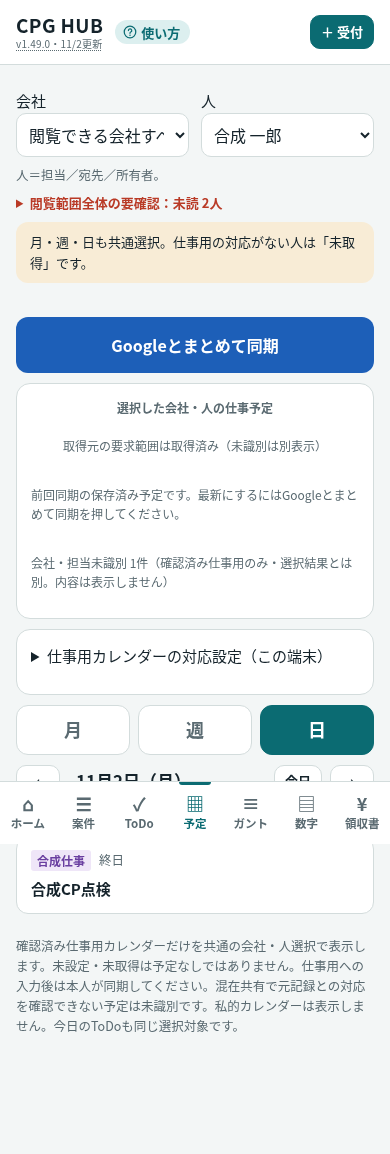
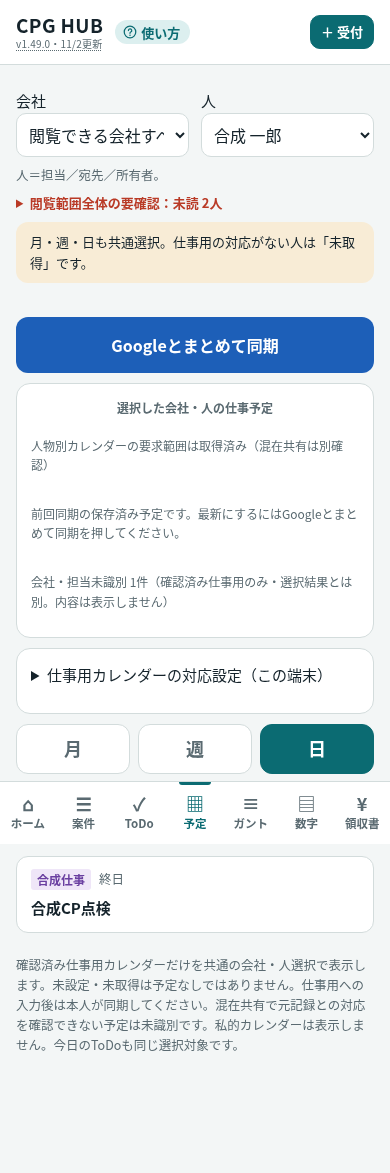
Fail closed for legacy calendar privacy and missing mixed sources

diff --git a/manual-admin.html b/manual-admin.html
@@ -172,7 +172,7 @@ th{color:var(--muted);font-size:13px}
 <section><h2>v1.48.2（2026年11月1日）日付のずれと文字の折り返し</h2><p>同期結果の「日付の変わった案件」には受付番号・物件・部屋と、HUBの予定日／カレンダーに登録した日付を表示します。最初の5件を表示し、「ほか○件」で残りを開閉できます。案件を押すとGoogleカレンダー欄へ移動します。日付のずれは同期エラーとは別の「要確認」です。必要な更新は本人が「カレンダーの予定を更新」を押して行います。自動更新はしません。文字が大きい場合も枠内で折り返し、広い表は表の中で横にスクロールします。</p></section>
 <section><h2>v1.48.3（2026年11月1日）数字の月別・全期間</h2><p>数字画面の「月別／全期間」で集計期間を切り替えます。月別の初期表示は日本時間の今月で、年月を選ぶか「前月」「翌月」で移動できます。見積提出は見積提出日、受注は受注日、失注は失注日で数え、担当別・種類別・理由・受注額・決定率を同じ期間で比べられます。全期間も日付のない実績は含めません。決定率は受注÷（受注＋失注）、0件なら「—」です。失注日未入力の注意は期間外の独立表示で、失注件数・決定率に含めません。未入金は現在残高で、選択期間の対象外です。失注段階優先と正しい受注後取消の受注履歴は従来どおりです。</p></section>
 <section><h2>v1.48.4（2026年11月1日）同期をホームの先頭へ</h2><p>ホームは、ヘッダーの直下に「Googleとまとめて同期」ボタンと同期結果を表示し、その下に今日のまとめ、タスクリクエスト、会社の動き（社長・全社・GM）を並べます。同期成功時の開閉や、エラー・今日未同期・未送信の完了報告・日付のずれ等の注意は従来どおりです。配置だけの変更で、同期・保存・権限・集計は変わりません。</p></section>
-<section><h2>v1.49.0（2026年11月2日）共通の会社・人選択</h2><p>ホーム・案件・ToDo・数字・ガント・指示一覧・領収書・会社の動きは、共通の会社・人のドロップダウンで同じ対象を選びます。人は案件と通常ToDoでは担当、リクエストでは宛先、領収書では所有者です。初めは自分。会社と人を選ぶと画面移動・再読込後も引き継ぎます。会社未設定の案件・領収書は所属会社から推測せず「会社未設定」で確認します。案件に結び付かないToDoとリクエストの会社は、根拠のある担当・宛先の所属によります。</p><p>同名の人はシートIDで区別します。選んだ人を読めない・権限を確認できないときに、勝手に全員へ切り替えません。未読込や読込失敗は0件という意味ではありません。数字の月別／全期間と計算方法、保存データ、同期出力は変わりません。</p><p>ToDoの期間、数字の年月・全期間はそのまま使えます。絞り込んだ件数とは別に、閲覧範囲全体の期限切れToDo・緊急・未読と、この端末の同期の注意を表示します。会社の動きの同期状況は閲覧範囲全体の注意です。入力中の画面では選択を変えず、一覧へ戻って変更します。入金確認依頼やAccess書出し等の既存操作は表示選択で対象を変更しません。領収書の支払い方法だけは領収書画面内で選べます。</p><p>予定の月・週・日と今日のToDoも共通選択に連動します。予定画面の「仕事用カレンダーの対応設定」で、取得済みのGoogle一覧から仕事専用と確認したIDを選び、会社・正規社員を確認して保存します。このブラウザの利用設定別に保存し、他端末へ自動配布しません。未設定・未接続・範囲外・読取失敗は「未取得」で、取得済み0件とは区別します。社員候補は予定未接続でも残ります。「数字」→「Googleカレンダー連携」の読込対象にも選び、予定入力後は本人が同期してください。対応設定だけでは読込対象を増やしません。</p><p>複数社を担当し予定ごとの会社が不明なら「会社未特定」を選びます。全社＋本人では表示し、単社へ推測で振り分けません。混在仕事共有は、案件の元記録に保存されたカレンダーID＋イベントID＋受付番号が一意に一致する場合だけ分類します。社員共有表にはイベントIDがないため、他社員の混在予定や旧キャッシュのID欠落は未識別の別件数です。私的予定・未確認カレンダーは表示せず、「全員」でも確認済み仕事用だけです。既存キャッシュ原本、Google予定・ACL・登録更新処理は変更しません。</p></section>
+<section><h2>v1.49.0（2026年11月2日）共通の会社・人選択</h2><p>ホーム・案件・ToDo・数字・ガント・指示一覧・領収書・会社の動きは、共通の会社・人のドロップダウンで同じ対象を選びます。人は案件と通常ToDoでは担当、リクエストでは宛先、領収書では所有者です。初めは自分。会社と人を選ぶと画面移動・再読込後も引き継ぎます。会社未設定の案件・領収書は所属会社から推測せず「会社未設定」で確認します。案件に結び付かないToDoとリクエストの会社は、根拠のある担当・宛先の所属によります。</p><p>同名の人はシートIDで区別します。選んだ人を読めない・権限を確認できないときに、勝手に全員へ切り替えません。未読込や読込失敗は0件という意味ではありません。数字の月別／全期間と計算方法、保存データ、同期出力は変わりません。</p><p>ToDoの期間、数字の年月・全期間はそのまま使えます。絞り込んだ件数とは別に、閲覧範囲全体の期限切れToDo・緊急・未読と、この端末の同期の注意を表示します。会社の動きの同期状況は閲覧範囲全体の注意です。入力中の画面では選択を変えず、一覧へ戻って変更します。入金確認依頼やAccess書出し等の既存操作は表示選択で対象を変更しません。領収書の支払い方法だけは領収書画面内で選べます。</p><p>予定の月・週・日と今日のToDoも共通選択に連動します。予定画面の「仕事用カレンダーの対応設定」で、取得済みのGoogle一覧から仕事専用と確認したIDを選び、会社・正規社員を確認して保存します。このブラウザの利用設定別に保存し、他端末へ自動配布しません。未設定・未接続・範囲外・読取失敗は「未取得」で、取得済み0件とは区別します。社員候補は予定未接続でも残ります。「数字」→「Googleカレンダー連携」の読込対象にも選び、予定入力後は本人が同期してください。対応設定だけでは読込対象を増やしません。</p><p>複数社を担当し予定ごとの会社が不明なら「会社未特定」を選びます。全社＋本人では表示し、単社へ推測で振り分けません。混在仕事共有は、案件の元記録に保存されたカレンダーID＋イベントID＋受付番号が一意に一致する場合だけ分類します。社員共有表にはイベントIDがないため、他社員の混在予定や旧キャッシュのID欠落は未識別の別件数です。私的予定・未確認カレンダーは表示せず、「全員」でも確認済み仕事用だけです。旧キャッシュで非公開区分を確認できない行は原本を保持し、内容を表示せず「非公開区分未確認」とします。本人が同期して安全属性を再取得してから表示します。混在共有の読取失敗は「追加予定未確認」、取得済みで会社・人物が不明なものは「未識別あり」と分け、予定なしとは断定しません。Google予定・ACL・登録更新処理は変更しません。</p></section>
 <section><h2>v1.48.7（2026年11月2日）氏名をフルネームで表示</h2><p>社員一覧で確認できる正式な氏名を、担当・案件・ToDo・数字などに表示します。過去の担当名や案件の記録は書き換えません。同姓同名はGmailとシートIDで区別し、正規名と旧名が重なる担当選択は無効にします。誰か分からない略称は推測せず元の表示を残します。</p><p>正規氏名の変更は社長用の「数字」→「管理（社長用）」→対象社員の「正規氏名」から行います。変更前後・旧担当キー・保存先を確認し「変更を確認して保存」を押します。「やめる」または確認画面を閉じると変更しません。管理者が変更した後、社員・閲覧者は新版で同期すると表示に反映します。旧版は正規氏名の変更履歴を読みません。</p><p>変更は既存シートの「社員氏名履歴」に追記します。氏名・旧名・シートID・変更日時を含み、既存の閲覧権限を持つ人が読めます。新しい権限は付けません。通信途中の失敗時は成功と考えず、同じ名前で再確認してください。複数シートへの反映は一括ではないため、一部だけ反映する場合があります。管理操作は1端末・1タブずつ行ってください。社員本人の従来の氏名設定・過去の精算書や指示に記録された名前は、自動置換しません。</p></section>
 <section><h2>v1.48.6（2026年11月2日）GMの範囲と共有の確認</h2><p>GMが見たり指示を出したりできる相手は、GMと同じ1社だけに所属する一般社員です。複数会社に所属する人、全社・GMなどの管理者は含めません。全社の範囲は従来どおりです。会社・役割を保存するときは、共有の一覧（誰のシート・ファイルID・相手・権限）を確認してから実行します。旧共有や変更元を確認できない共有は残し、「要確認」と表示します。役割を外しても、要確認の共有が残る場合はGoogle上のアクセスが続きます。自動的に全部外れたとは考えず、管理者が個別に確認してください。</p><p>共有確認後、社長の社員一覧に「共有管理履歴」を作り、変更前後の権限とGmail・ファイルID・日時を追記します。初回表示や通常同期では作りません。作成済みの社員列と指示箱の列は変えません。この機能で新しく付け、結果と履歴の読戻しまで確認できた共有だけを解除対象にします。既存の共有は再利用しても解除対象にしません。結果不明・履歴不整合・外部変更では自動再試行せず、表示された対象を確認してください。管理操作は1端末・1タブで行い、Driveの共有変更と同時に行わないでください。同じ内容で外部から付け直された共有まで識別する保証はありません。新規作成を途中でやめてもファイルは残します。案内メールは自動送信しません。旧版では安全確認が働かないため、管理に使う全端末・旧タブを更新してから操作してください。</p></section>
 <section><h2>v1.48.5（2026年11月1日）保存済み予定と未取得日の区別</h2><p>予定の月・週・日表示では、保存済みの範囲に重なる予定を表示します。月の前後の余白が保存範囲外でも、取得済みの月の予定は消えません。範囲外や読込みが確認できない日は「未取得」と表示し、「予定なし」と区別します。一部のカレンダーを読めなかった場合も、取得できた予定を表示しながら未取得の注意を残します。最新の予定を取得する操作は従来どおり「Googleとまとめて同期」です。Googleの予定・同期処理・保存形式・閲覧権限は変更しません。</p></section>

diff --git a/manual.html b/manual.html
@@ -404,7 +404,7 @@ th{color:var(--muted);font-size:13px}
 <section><h2>v1.48.2（2026年11月1日）日付のずれと文字の折り返し</h2><p>同期結果の「日付の変わった案件」には受付番号・物件・部屋と、HUBの予定日／カレンダーに登録した日付を表示します。最初の5件を表示し、「ほか○件」で残りを開閉できます。案件を押すとGoogleカレンダー欄へ移動します。日付のずれは同期エラーとは別の「要確認」です。必要な更新は本人が「カレンダーの予定を更新」を押して行います。自動更新はしません。文字が大きい場合も枠内で折り返し、広い表は表の中で横にスクロールします。</p></section>
 <section><h2>v1.48.3（2026年11月1日）数字の月別・全期間</h2><p>数字画面の「月別／全期間」で集計期間を切り替えます。月別の初期表示は日本時間の今月で、年月を選ぶか「前月」「翌月」で移動できます。見積提出は見積提出日、受注は受注日、失注は失注日で数え、担当別・種類別・理由・受注額・決定率を同じ期間で比べられます。全期間も日付のない実績は含めません。決定率は受注÷（受注＋失注）、0件なら「—」です。失注日未入力の注意は期間外の独立表示で、失注件数・決定率に含めません。未入金は現在残高で、選択期間の対象外です。失注段階優先と正しい受注後取消の受注履歴は従来どおりです。</p></section>
 <section><h2>v1.48.4（2026年11月1日）同期をホームの先頭へ</h2><p>ホームは、ヘッダーの直下に「Googleとまとめて同期」ボタンと同期結果を表示し、その下に今日のまとめ、タスクリクエスト、会社の動き（社長・全社・GM）を並べます。同期成功時の開閉や、エラー・今日未同期・未送信の完了報告・日付のずれ等の注意は従来どおりです。配置だけの変更で、同期・保存・権限・集計は変わりません。</p></section>
-<section><h2>v1.49.0（2026年11月2日）共通の会社・人選択</h2><p>ホーム・案件・ToDo・数字・ガント・指示一覧・領収書・会社の動きは、共通の会社・人のドロップダウンで同じ対象を選びます。人は案件と通常ToDoでは担当、リクエストでは宛先、領収書では所有者です。初めは自分。会社と人を選ぶと画面移動・再読込後も引き継ぎます。会社未設定の案件・領収書は所属会社から推測せず「会社未設定」で確認します。案件に結び付かないToDoとリクエストの会社は、根拠のある担当・宛先の所属によります。</p><p>同名の人はシートIDで区別します。選んだ人を読めない・権限を確認できないときに、勝手に全員へ切り替えません。未読込や読込失敗は0件という意味ではありません。数字の月別／全期間と計算方法、保存データ、同期出力は変わりません。</p><p>ToDoの期間、数字の年月・全期間はそのまま使えます。絞り込んだ件数とは別に、閲覧範囲全体の期限切れToDo・緊急・未読と、この端末の同期の注意を表示します。会社の動きの同期状況は閲覧範囲全体の注意です。入力中の画面では選択を変えず、一覧へ戻って変更します。入金確認依頼やAccess書出し等の既存操作は表示選択で対象を変更しません。領収書の支払い方法だけは領収書画面内で選べます。</p><p>予定の月・週・日と今日のToDoも共通選択に連動します。予定画面の「仕事用カレンダーの対応設定」で、取得済みのGoogle一覧から仕事専用と確認したIDを選び、会社・正規社員を確認して保存します。このブラウザの利用設定別に保存し、他端末へ自動配布しません。未設定・未接続・範囲外・読取失敗は「未取得」で、取得済み0件とは区別します。社員候補は予定未接続でも残ります。「数字」→「Googleカレンダー連携」の読込対象にも選び、予定入力後は本人が同期してください。対応設定だけでは読込対象を増やしません。</p><p>複数社を担当し予定ごとの会社が不明なら「会社未特定」を選びます。全社＋本人では表示し、単社へ推測で振り分けません。混在仕事共有は、案件の元記録に保存されたカレンダーID＋イベントID＋受付番号が一意に一致する場合だけ分類します。社員共有表にはイベントIDがないため、他社員の混在予定や旧キャッシュのID欠落は未識別の別件数です。私的予定・未確認カレンダーは表示せず、「全員」でも確認済み仕事用だけです。既存キャッシュ原本、Google予定・ACL・登録更新処理は変更しません。</p></section>
+<section><h2>v1.49.0（2026年11月2日）共通の会社・人選択</h2><p>ホーム・案件・ToDo・数字・ガント・指示一覧・領収書・会社の動きは、共通の会社・人のドロップダウンで同じ対象を選びます。人は案件と通常ToDoでは担当、リクエストでは宛先、領収書では所有者です。初めは自分。会社と人を選ぶと画面移動・再読込後も引き継ぎます。会社未設定の案件・領収書は所属会社から推測せず「会社未設定」で確認します。案件に結び付かないToDoとリクエストの会社は、根拠のある担当・宛先の所属によります。</p><p>同名の人はシートIDで区別します。選んだ人を読めない・権限を確認できないときに、勝手に全員へ切り替えません。未読込や読込失敗は0件という意味ではありません。数字の月別／全期間と計算方法、保存データ、同期出力は変わりません。</p><p>ToDoの期間、数字の年月・全期間はそのまま使えます。絞り込んだ件数とは別に、閲覧範囲全体の期限切れToDo・緊急・未読と、この端末の同期の注意を表示します。会社の動きの同期状況は閲覧範囲全体の注意です。入力中の画面では選択を変えず、一覧へ戻って変更します。入金確認依頼やAccess書出し等の既存操作は表示選択で対象を変更しません。領収書の支払い方法だけは領収書画面内で選べます。</p><p>予定の月・週・日と今日のToDoも共通選択に連動します。予定画面の「仕事用カレンダーの対応設定」で、取得済みのGoogle一覧から仕事専用と確認したIDを選び、会社・正規社員を確認して保存します。このブラウザの利用設定別に保存し、他端末へ自動配布しません。未設定・未接続・範囲外・読取失敗は「未取得」で、取得済み0件とは区別します。社員候補は予定未接続でも残ります。「数字」→「Googleカレンダー連携」の読込対象にも選び、予定入力後は本人が同期してください。対応設定だけでは読込対象を増やしません。</p><p>複数社を担当し予定ごとの会社が不明なら「会社未特定」を選びます。全社＋本人では表示し、単社へ推測で振り分けません。混在仕事共有は、案件の元記録に保存されたカレンダーID＋イベントID＋受付番号が一意に一致する場合だけ分類します。社員共有表にはイベントIDがないため、他社員の混在予定や旧キャッシュのID欠落は未識別の別件数です。私的予定・未確認カレンダーは表示せず、「全員」でも確認済み仕事用だけです。旧キャッシュで非公開区分を確認できない行は原本を保持し、内容を表示せず「非公開区分未確認」とします。本人が同期して安全属性を再取得してから表示します。混在共有の読取失敗は「追加予定未確認」、取得済みで会社・人物が不明なものは「未識別あり」と分け、予定なしとは断定しません。Google予定・ACL・登録更新処理は変更しません。</p></section>
 <section><h2>v1.48.7（2026年11月2日）氏名をフルネームで表示</h2><p>社員一覧で確認できる正式な氏名を、担当・案件・ToDo・数字などに表示します。過去の担当名や案件の記録は書き換えません。同姓同名はGmailとシートIDで区別し、正規名と旧名が重なる担当選択は無効にします。誰か分からない略称は推測せず元の表示を残します。</p><p>正規氏名の変更は社長用の「数字」→「管理（社長用）」→対象社員の「正規氏名」から行います。変更前後・旧担当キー・保存先を確認し「変更を確認して保存」を押します。「やめる」または確認画面を閉じると変更しません。管理者が変更した後、社員・閲覧者は新版で同期すると表示に反映します。旧版は正規氏名の変更履歴を読みません。</p><p>変更は既存シートの「社員氏名履歴」に追記します。氏名・旧名・シートID・変更日時を含み、既存の閲覧権限を持つ人が読めます。新しい権限は付けません。通信途中の失敗時は成功と考えず、同じ名前で再確認してください。複数シートへの反映は一括ではないため、一部だけ反映する場合があります。管理操作は1端末・1タブずつ行ってください。社員本人の従来の氏名設定・過去の精算書や指示に記録された名前は、自動置換しません。</p></section>
 <section><h2>v1.48.6（2026年11月2日）GMの範囲と共有の確認</h2><p>GMが見たり指示を出したりできる相手は、GMと同じ1社だけに所属する一般社員です。複数会社に所属する人、全社・GMなどの管理者は含めません。全社の範囲は従来どおりです。会社・役割を保存するときは、共有の一覧（誰のシート・ファイルID・相手・権限）を確認してから実行します。旧共有や変更元を確認できない共有は残し、「要確認」と表示します。役割を外しても、要確認の共有が残る場合はGoogle上のアクセスが続きます。自動的に全部外れたとは考えず、管理者が個別に確認してください。</p></section>
 <section><h2>v1.48.5（2026年11月1日）保存済み予定と未取得日の区別</h2><p>予定の月・週・日表示では、保存済みの範囲に重なる予定を表示します。月の前後の余白が保存範囲外でも、取得済みの月の予定は消えません。範囲外や読込みが確認できない日は「未取得」と表示し、「予定なし」と区別します。一部のカレンダーを読めなかった場合も、取得できた予定を表示しながら未取得の注意を残します。最新の予定を取得する操作は従来どおり「Googleとまとめて同期」です。Googleの予定・同期処理・保存形式・閲覧権限は変更しません。</p></section>

diff --git a/index.html b/index.html
@@ -1728,9 +1728,11 @@ function vCal(){
   const projected=CPGCalendarScope.project({g:{...raw,data:gSafeData(raw.data)},rows:ui.calendarMapError?[]:mapping.rows,model,cases:scopeSourceCases(),resolvePerson:scopePerson,readable:gConcreteReadable,from:rFrom,to:rTo});
   const g={...raw,data:raw.data?{...raw.data,events:projected.events,sources:(raw.data.sources||[]).filter(s=>projected.approved.some(r=>r.id===s.id)),calendars:[]}:null};
   const gby=g.data?gcalByDay(g.data):{},gday=s=>gcalCovered(g,s)?gby[s]||[]:[];
-  const isUnknown=s=>projected.unknown(s),unknown=s=>isUnknown(s)?'<span class="note cal-unfetched" role="status">未取得（予定の有無は未確認）</span>':'';
+  const isUnknown=s=>projected.unknown(s),dayNotice=s=>({unfetched:'未取得（予定の有無は未確認）',additional:'追加予定未確認（混在共有を未取得）',privacy:'非公開区分未確認（再取得が必要）',unidentified:'未識別あり（選択対象の有無は未確認）'})[projected.dayState(s)]||'';
+  const unknown=s=>dayNotice(s)?'<span class="note '+(projected.dayState(s)==='unfetched'?'cal-unfetched':'cal-unidentified')+'" role="status">'+dayNotice(s)+'</span>':'';
   const statuses=projected.status(rFrom), pending=statuses.map(p=>!p.ready?p:projected.status(rTo).find(q=>q.id===p.id)||p).filter(p=>!p.ready);
-  const gst=gSyncPanel()+'<div class="panel gcst calendar-scope-status" role="status"><b>選択した会社・人の仕事予定</b><p>'+(!model.usable?'選択対象を確認できません。':!statuses.length?'対象の予定は未取得です。':pending.length?'未取得 '+pending.length+'人：'+pending.map(p=>h(p.name)+'（'+h(p.reason)+'）').join('、'):'取得元の要求範囲は取得済み（未識別は別表示）')+'</p>'+(raw.state==='error'?'<p>Google予定を読めませんでした。未取得として表示します。</p>':'')+(pending.length?'<p>予定は一部未取得です。</p>':'')+(raw.state==='kept'?'<p>前回同期の保存済み予定です。最新にするにはGoogleとまとめて同期を押してください。</p>':'')+'<p>会社・担当未識別 '+projected.unidentified.length+'件（確認済み仕事用のみ・選択結果とは別。内容は表示しません）</p>'+(mapping.state==='invalid'?'<p>カレンダー対応設定を読み戻せません。設定を確認してください。</p>':'')+'</div>'+calendarScopeSettings();
+  const mixedMissingCount=new Set([...projected.mixedMissing(rFrom),...projected.mixedMissing(rTo)].map(r=>r.id)).size;
+  const gst=gSyncPanel()+'<div class="panel gcst calendar-scope-status" role="status"><b>選択した会社・人の仕事予定</b><p>'+(!model.usable?'選択対象を確認できません。':!statuses.length?'対象の予定は未取得です。':pending.length?'未取得 '+pending.length+'人：'+pending.map(p=>h(p.name)+'（'+h(p.reason)+'）').join('、'):projected.privacyUnconfirmed.length?'取得元は保存済み・非公開区分は未確認':'人物別カレンダーの要求範囲は取得済み（混在共有は別確認）')+'</p>'+(raw.state==='error'?'<p>Google予定を読めませんでした。未取得として表示します。</p>':'')+(pending.length?'<p>予定は一部未取得です。</p>':'')+(raw.state==='kept'?'<p>前回同期の保存済み予定です。最新にするにはGoogleとまとめて同期を押してください。</p>':'')+(mixedMissingCount?'<p>混在共有 '+mixedMissingCount+'件は未取得。追加予定の有無は未確認です。</p>':'')+(projected.privacyUnconfirmed.length?'<p>非公開区分未確認 '+projected.privacyUnconfirmed.length+'件。旧キャッシュ原本を残し、内容は表示しません。本人が同期して再取得してください。</p>':'')+'<p>会社・担当未識別 '+projected.unidentified.length+'件（確認済み仕事用のみ・選択結果とは別。内容は表示しません）</p>'+(mapping.state==='invalid'?'<p>カレンダー対応設定を読み戻せません。設定を確認してください。</p>':'')+'</div>'+calendarScopeSettings();
   const legend="";
   const note='<p class="note">確認済み仕事用カレンダーだけを共通の会社・人選択で表示します。未設定・未取得は予定なしではありません。仕事用への入力後は本人が同期してください。混在共有で元記録との対応を確認できない予定は未識別です。私的カレンダーは表示しません。今日のToDoも同じ選択対象です。</p>';
   const views='<div class="seg cv" role="group" aria-label="表示の切り替え">'+[["month","月"],["week","週"],["day","日"]].map(([k,l])=>'<button type="button" data-cv="'+k+'" aria-pressed="'+(ui.calView===k)+'">'+l+'</button>').join("")+'</div>';
@@ -1771,7 +1773,7 @@ function vCal(){
     const shown=all.slice(0,2).map(([cl,l])=>'<span class="'+cl+'">'+h(l)+'</span>').join("");
     const more=all.length>2?'<span class="ev td">ほか'+(all.length-2)+'件</span>':'';
     const tdl=b.td.length?'<span class="ev td'+(b.td.some(x=>x.due<t)?" over":"")+'">ToDo '+b.td.length+'</span>':'';
-    cells+='<button type="button" class="'+cls+'" data-day="'+s+'" aria-label="'+(dt.getMonth()+1)+'月'+dt.getDate()+'日'+(hol?' '+hol:'')+'を日表示で開く"><span class="n">'+dt.getDate()+'</span>'+(hol?'<span class="hn">'+hol+'</span>':'')+shown+more+tdl+(isUnknown(s)?'<span class="ev cal-unfetched">未取得</span>':'')+'</button>';
+    cells+='<button type="button" class="'+cls+'" data-day="'+s+'" aria-label="'+(dt.getMonth()+1)+'月'+dt.getDate()+'日'+(hol?' '+hol:'')+'を日表示で開く"><span class="n">'+dt.getDate()+'</span>'+(hol?'<span class="hn">'+hol+'</span>':'')+shown+more+tdl+(isUnknown(s)?'<span class="ev '+(projected.dayState(s)==='unfetched'?'cal-unfetched':'cal-unidentified')+'">'+({unfetched:'未取得',additional:'追加予定未確認',privacy:'区分未確認',unidentified:'未識別あり'})[projected.dayState(s)]+'</span>':'')+'</button>';
   }
   return '<section class="sec">'+gst+views+'<div class="calnav"><button class="btn sm" type="button" data-mon="-1" aria-label="前の月">‹</button><h2 class="num">'+y+'年'+m+'月</h2><button class="btn sm" type="button" data-mon="0">今月</button><button class="btn sm" type="button" data-mon="1" aria-label="次の月">›</button></div>'+
   legend+

diff --git a/calendar-view-scope.js b/calendar-view-scope.js
@@ -14,8 +14,9 @@ function project({g,rows,model,cases=[],resolvePerson,readable,from='',to='9999-
  const people=model.candidates.filter(p=>model.selection.person==='all'||p.sheetId===model.selection.person),allowed=new Set(model.people.map(p=>p.sheetId));
  const approved=valid(rows)?rows.filter(r=>readable(r.id)&&(r.mode==='mixed'||allowed.has(r.person)&&(r.company==='unknown'||model.people.find(p=>p.sheetId===r.person)?.companies.includes(r.company)))):[];
  const co=model.selection.company,person=model.selection.person,match=(company,id)=>(co==='all'||co===company)&&(person==='all'||person===id);
- const maps=new Map(approved.map(r=>[r.id,r])),events=[],unidentified=[];
+ const maps=new Map(approved.map(r=>[r.id,r])),events=[],unidentified=[],privacyUnconfirmed=[];
  for(const e of g.data?.events||[]){const r=maps.get(e.calendarId),[first,last]=span(e);if(!r||!model.usable||e.private===true||!first||last<from||first>to)continue;let company=r.company,id=r.person;
+  if(e.private!==false){if(r.mode==='mixed'||match(company,id)||(company==='unknown'&&(person==='all'||person===id)))privacyUnconfirmed.push(e);continue}
   if(r.mode==='mixed'){
    // A bare case number is not provenance. Require exact saved event+calendar identity.
    const hit=cases.filter(c=>e.id&&e.hub&&c.id===e.hub&&c.gcal?.id===e.id&&c.gcal?.cal===e.calendarId);
@@ -28,8 +29,12 @@ function project({g,rows,model,cases=[],resolvePerson,readable,from='',to='9999-
  const sources=g.data?.sources||[],readyState=['ok','kept'].includes(g.state);
  const coverage=(r,day)=>readyState&&sources.some(s=>s.id===r.id&&(s.from||g.from)<=day&&(s.to||g.to)>=day);
  const status=day=>people.map(p=>{const assigned=approved.filter(r=>r.mode==='person'&&r.person===p.sheetId&&(co==='all'||r.company===co));return {id:p.sheetId,name:p.name,ready:model.usable&&assigned.length>0&&assigned.every(r=>coverage(r,day)),reason:!assigned.length?'仕事用カレンダー未設定':assigned.every(r=>coverage(r,day))?'取得済み':'未取得・読取失敗または保存範囲外'};});
- const unknown=day=>!model.usable||!people.length||status(day).some(p=>!p.ready)||unidentified.some(e=>{const [first,last]=span(e);return first<=day&&last>=day});
- return {events,unidentified,status,unknown,approved};
+ const onDay=(list,day)=>list.some(e=>{const [first,last]=span(e);return first<=day&&last>=day});
+ const unfetched=day=>!model.usable||!people.length||status(day).some(p=>!p.ready);
+ const mixedMissing=day=>approved.filter(r=>r.mode==='mixed'&&!coverage(r,day));
+ const dayState=day=>unfetched(day)?'unfetched':mixedMissing(day).length?'additional':onDay(privacyUnconfirmed,day)?'privacy':onDay(unidentified,day)?'unidentified':'ready';
+ const unknown=day=>dayState(day)!=='ready';
+ return {events,unidentified,privacyUnconfirmed,status,unknown,unfetched,dayState,mixedMissing,approved};
 }
 return {key,valid,load,save,project};
 });

diff --git a/docs/view-scope-foundation.md b/docs/view-scope-foundation.md
@@ -43,7 +43,7 @@
 
 予定の月・週・日と今日のToDoも共通選択に連動します。予定画面の「仕事用カレンダーの対応設定」で、取得済みのGoogle一覧から仕事専用と確認したIDを選び、会社・正規社員を確認して保存します。このブラウザの利用設定別に保存し、他端末へ自動配布しません。未設定・未接続・範囲外・読取失敗は「未取得」で、取得済み0件とは区別します。社員候補は予定未接続でも残ります。「数字」→「Googleカレンダー連携」の読込対象にも選び、予定入力後は本人が同期してください。対応設定だけでは読込対象を増やしません。
 
-複数社を担当し予定ごとの会社が不明なら「会社未特定」を選びます。全社＋本人では表示し、単社へ推測で振り分けません。混在仕事共有は、案件の元記録に保存されたカレンダーID＋イベントID＋受付番号が一意に一致する場合だけ分類します。社員共有表にはイベントIDがないため、他社員の混在予定や旧キャッシュのID欠落は未識別の別件数です。私的予定・未確認カレンダーは表示せず、「全員」でも確認済み仕事用だけです。既存キャッシュ原本、Google予定・ACL・登録更新処理は変更しません。
+複数社を担当し予定ごとの会社が不明なら「会社未特定」を選びます。全社＋本人では表示し、単社へ推測で振り分けません。混在仕事共有は、案件の元記録に保存されたカレンダーID＋イベントID＋受付番号が一意に一致する場合だけ分類します。社員共有表にはイベントIDがないため、他社員の混在予定や旧キャッシュのID欠落は未識別の別件数です。私的予定・未確認カレンダーは表示せず、「全員」でも確認済み仕事用だけです。旧キャッシュで非公開区分を確認できない行は原本を保持し、内容を表示せず「非公開区分未確認」とします。本人が同期して安全属性を再取得してから表示します。混在共有の読取失敗は「追加予定未確認」、取得済みで会社・人物が不明なものは「未識別あり」と分け、予定なしとは断定しません。Google予定・ACL・登録更新処理は変更しません。
 
 全45スクリプトは各 `node tests/<ファイル名>.cjs` で実行。最終コミットの結果はPR用報告で記録する。390/360/820の画像は `docs/preview/scope-*.png`（合成データ）。文字150%は全要素のcomputed font-sizeを測定して1.5倍に設定し、再描画ごとに復元・再適用。deviceScaleFactorの代用ではない。
 
@@ -53,5 +53,7 @@
 
 
 ## 予定の共通選択の検証
-`calendar-view-scope.js` の単体15群、実アプリ10群を追加。仕事専用の確認と確認中止、同名、複数社の人物確定/会社未特定、混在のID衝突、旧event ID欠落、未設定候補、0件、入力後の取得、月週日・日跨ぎ・部分期間・取得元別失敗、設定の保存/読戻し失敗、利用設定分離、DB/キャッシュ原本不変を合成検証する。取得イベントのIDと取得元の成功範囲を表示用キャッシュに保持するだけで、Google書込み・既存業務共有列を変更しない。
+`calendar-view-scope.js` の単体17群、実アプリ12群を追加。仕事専用の確認と確認中止、同名、複数社の人物確定/会社未特定、混在のID衝突、旧event ID欠落、未設定候補、0件、入力後の取得、月週日・日跨ぎ・部分期間・取得元別失敗、設定の保存/読戻し失敗、利用設定分離、DB/キャッシュ原本不変を合成検証する。取得イベントのIDと取得元の成功範囲を表示用キャッシュに保持するだけで、Google書込み・既存業務共有列を変更しない。
 390px、360px実フォント150%、820pxの画像は `scope-calendar-*.png`。Google接続・実ID対応・Android/Fold実機は未実施。実対応を未設定のまま運用準備完了とは扱わない。カレンダーIDはメールアドレス等を含み得るため、端末共有時の設定の秘匿は保証しない。
+
+独立レビュー回帰：旧policy 2のprivate属性欠落行（当時owner/privateの件名を含み得る）は明示仕事用mapping後も表示しない。rawキャッシュを保持して再読込し、新取得のprivate=trueは非表示、falseのみ表示。専用source成功＋混在source失敗は追加予定未確認とし、無関係な別人専用sourceの失敗では選択本人を未取得にしない。混在sourceの未識別は読取失敗と別の用語・表示にする。

diff --git a/README.md b/README.md
@@ -244,4 +244,4 @@ GMが見たり指示を出したりできる相手は、GMと同じ1社だけに
 
 予定の月・週・日と今日のToDoも共通選択に連動します。予定画面の「仕事用カレンダーの対応設定」で、取得済みのGoogle一覧から仕事専用と確認したIDを選び、会社・正規社員を確認して保存します。このブラウザの利用設定別に保存し、他端末へ自動配布しません。未設定・未接続・範囲外・読取失敗は「未取得」で、取得済み0件とは区別します。社員候補は予定未接続でも残ります。「数字」→「Googleカレンダー連携」の読込対象にも選び、予定入力後は本人が同期してください。対応設定だけでは読込対象を増やしません。
 
-複数社を担当し予定ごとの会社が不明なら「会社未特定」を選びます。全社＋本人では表示し、単社へ推測で振り分けません。混在仕事共有は、案件の元記録に保存されたカレンダーID＋イベントID＋受付番号が一意に一致する場合だけ分類します。社員共有表にはイベントIDがないため、他社員の混在予定や旧キャッシュのID欠落は未識別の別件数です。私的予定・未確認カレンダーは表示せず、「全員」でも確認済み仕事用だけです。既存キャッシュ原本、Google予定・ACL・登録更新処理は変更しません。
+複数社を担当し予定ごとの会社が不明なら「会社未特定」を選びます。全社＋本人では表示し、単社へ推測で振り分けません。混在仕事共有は、案件の元記録に保存されたカレンダーID＋イベントID＋受付番号が一意に一致する場合だけ分類します。社員共有表にはイベントIDがないため、他社員の混在予定や旧キャッシュのID欠落は未識別の別件数です。私的予定・未確認カレンダーは表示せず、「全員」でも確認済み仕事用だけです。旧キャッシュで非公開区分を確認できない行は原本を保持し、内容を表示せず「非公開区分未確認」とします。本人が同期して安全属性を再取得してから表示します。混在共有の読取失敗は「追加予定未確認」、取得済みで会社・人物が不明なものは「未識別あり」と分け、予定なしとは断定しません。Google予定・ACL・登録更新処理は変更しません。

diff --git a/docs/引継ぎ.md b/docs/引継ぎ.md
@@ -170,4 +170,4 @@ PlaywrightとChromiumが必要。`CHROMIUM_PATH`未指定時は `/usr/bin/chromi
 
 予定の月・週・日と今日のToDoも共通選択に連動します。予定画面の「仕事用カレンダーの対応設定」で、取得済みのGoogle一覧から仕事専用と確認したIDを選び、会社・正規社員を確認して保存します。このブラウザの利用設定別に保存し、他端末へ自動配布しません。未設定・未接続・範囲外・読取失敗は「未取得」で、取得済み0件とは区別します。社員候補は予定未接続でも残ります。「数字」→「Googleカレンダー連携」の読込対象にも選び、予定入力後は本人が同期してください。対応設定だけでは読込対象を増やしません。
 
-複数社を担当し予定ごとの会社が不明なら「会社未特定」を選びます。全社＋本人では表示し、単社へ推測で振り分けません。混在仕事共有は、案件の元記録に保存されたカレンダーID＋イベントID＋受付番号が一意に一致する場合だけ分類します。社員共有表にはイベントIDがないため、他社員の混在予定や旧キャッシュのID欠落は未識別の別件数です。私的予定・未確認カレンダーは表示せず、「全員」でも確認済み仕事用だけです。既存キャッシュ原本、Google予定・ACL・登録更新処理は変更しません。
+複数社を担当し予定ごとの会社が不明なら「会社未特定」を選びます。全社＋本人では表示し、単社へ推測で振り分けません。混在仕事共有は、案件の元記録に保存されたカレンダーID＋イベントID＋受付番号が一意に一致する場合だけ分類します。社員共有表にはイベントIDがないため、他社員の混在予定や旧キャッシュのID欠落は未識別の別件数です。私的予定・未確認カレンダーは表示せず、「全員」でも確認済み仕事用だけです。旧キャッシュで非公開区分を確認できない行は原本を保持し、内容を表示せず「非公開区分未確認」とします。本人が同期して安全属性を再取得してから表示します。混在共有の読取失敗は「追加予定未確認」、取得済みで会社・人物が不明なものは「未識別あり」と分け、予定なしとは断定しません。Google予定・ACL・登録更新処理は変更しません。
